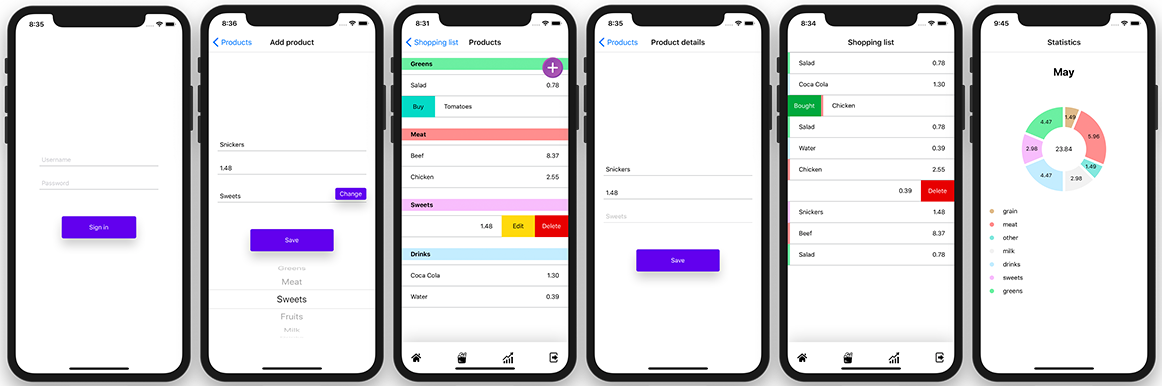
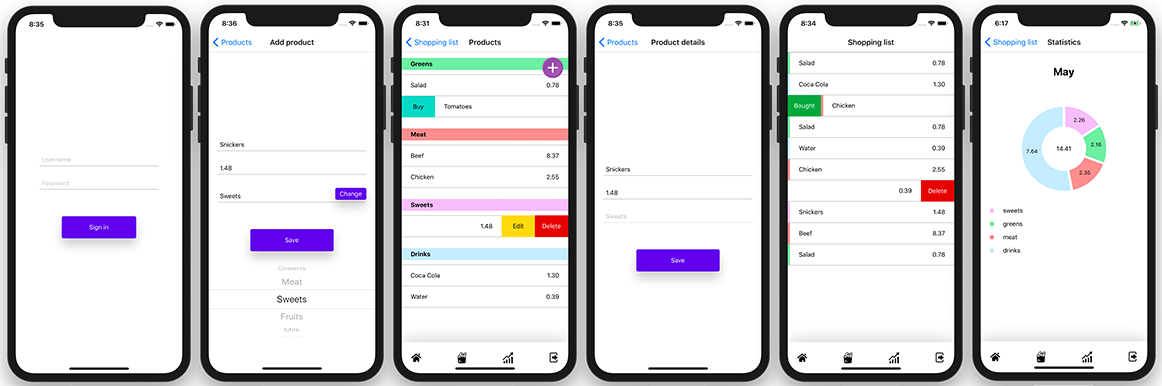
added menu in statistics screen

diff --git a/screens/statistics/Statistics.js b/screens/statistics/Statistics.js
@@ -5,6 +5,7 @@ import { Text as SvgText } from "react-native-svg";
 import { StoreContext } from "../../Store";
 import { colors } from "../../common";
 import { getBoughtProducts } from "../../actions";
+import { Menu } from "../../components";
 
 const months = [
   "January",
@@ -53,7 +54,7 @@ const renderItem = ({ item }) => {
 
 const keyExtractor = ({ key }) => key;
 
-const Statistics = () => {
+const Statistics = ({ navigation }) => {
   const { store, dispatch } = useContext(StoreContext);
   const { bought } = store;
 
@@ -87,30 +88,39 @@ const Statistics = () => {
   const data = Object.values(reducedProductsByType);
 
   return (
-    <SafeAreaView style={styles.container}>
-      <Text style={styles.title}>{months[new Date().getMonth()]}</Text>
-      <View>
-        <PieChart
-          style={styles.chart}
-          valueAccessor={({ item }) => item.amount}
-          data={data}
-          spacing={0}
-          outerRadius={"95%"}
-        >
-          <Labels />
-        </PieChart>
-        <View style={styles.total}>
-          <Text>{total.toFixed(2)}</Text>
+    <>
+      <SafeAreaView style={styles.container}>
+        <Text style={styles.title}>{months[new Date().getMonth()]}</Text>
+        <View>
+          <PieChart
+            style={styles.chart}
+            valueAccessor={({ item }) => item.amount}
+            data={data}
+            spacing={0}
+            outerRadius={"95%"}
+          >
+            <Labels />
+          </PieChart>
+          <View style={styles.total}>
+            <Text>{total.toFixed(2)}</Text>
+          </View>
         </View>
-      </View>
-      <FlatList
-        data={data}
-        renderItem={renderItem}
-        keyExtractor={keyExtractor}
-      />
-    </SafeAreaView>
+        <FlatList
+          data={data}
+          renderItem={renderItem}
+          keyExtractor={keyExtractor}
+        />
+      </SafeAreaView>
+      <Menu navigation={navigation} dispatch={dispatch} />
+    </>
   );
 };
+
+Statistics.navigationOptions = {
+  title: "Statistics"
+};
+
+export default Statistics;
 
 const styles = StyleSheet.create({
   container: {
@@ -151,9 +161,3 @@ const styles = StyleSheet.create({
     marginRight: 20
   }
 });
-
-Statistics.navigationOptions = {
-  title: "Statistics"
-};
-
-export default Statistics;
